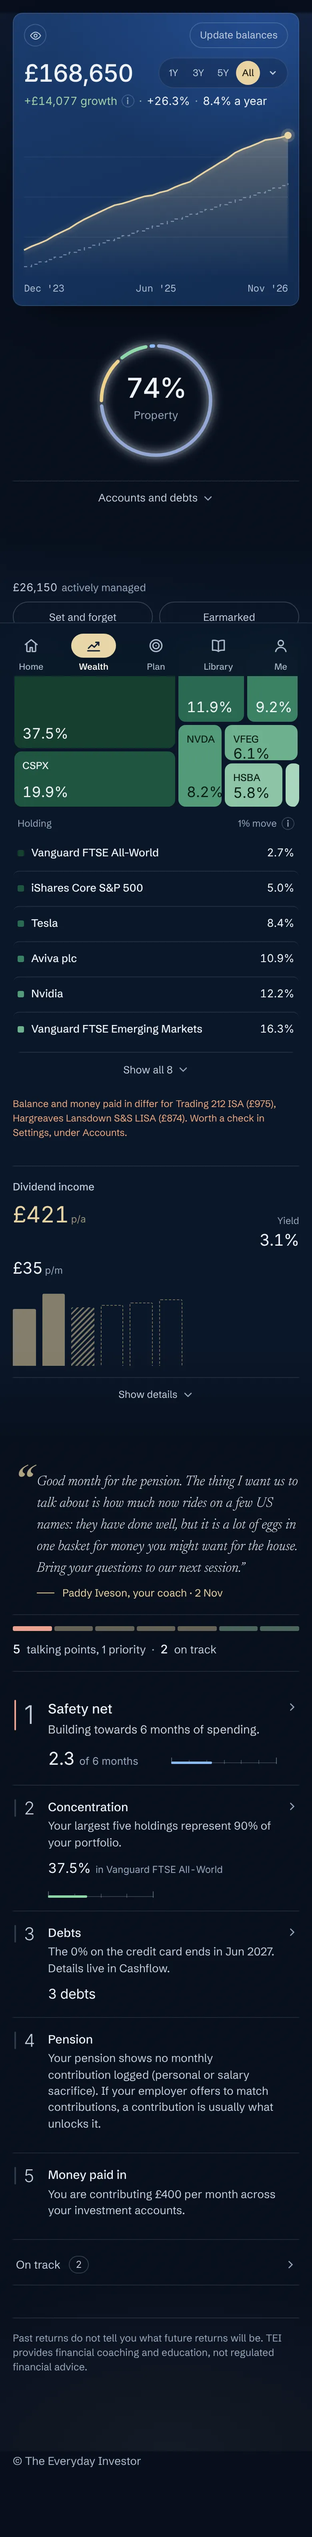
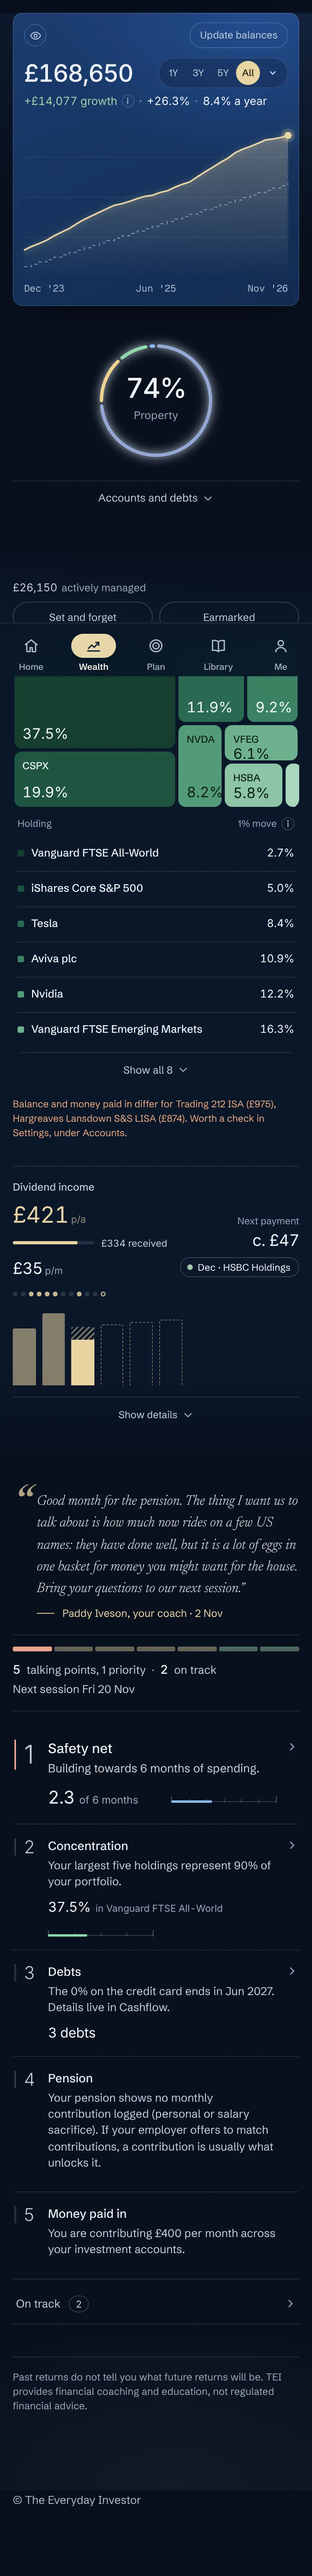
Homepage: fresh Wealth OS captures (dividend strip and next session)
Claude-Session: https://claude.ai/code/session_015wx5T26RgPTGsWLvy2vpF1

diff --git a/scripts/wos-demo/demo-client.js b/scripts/wos-demo/demo-client.js
@@ -6,6 +6,7 @@
      nodebts   no debts recorded
      noflags   no set-and-forget or earmarked accounts
      added     the Forecast and Cashflow topics are already added to the next session
+     nosession no Cal.com session booked
      stale     the plan and this month were changed after the notes were written
      light     light theme
    Today is taken from the browser clock. */
@@ -16,6 +17,7 @@
   var behind = has('behind'), noDebts = has('nodebts'), noFlags = has('noflags');
   if(has('light')){ try{ localStorage.setItem('tei-theme', 'light'); }catch(e){} }
 
+  var DIV1 = 'dddddddd-0000-4000-8000-000000000001', DIV2 = 'dddddddd-0000-4000-8000-000000000002', DIV3 = 'dddddddd-0000-4000-8000-000000000003';
   var CID = '11111111-2222-4333-8444-555555555555', UID = '99999999-8888-4777-8666-555555555555';
   var now = new Date();
   var mk = function(back){ var d = new Date(now.getFullYear(), now.getMonth() - back, 1); return d.getFullYear() + '-' + String(d.getMonth() + 1).padStart(2, '0'); };
@@ -137,9 +139,19 @@
         plan_saved_at: has('stale') ? iso(2) : null}],
       cashflow_months: cashflow_months,
       dividend_holdings: behind ? [] : [
-        {id: id(), client_id: CID, name: 'Aviva plc', yield: 7.1, growth: 4, amount: 2400, frequency: 'semiannual'},
-        {id: id(), client_id: CID, name: 'HSBC Holdings', yield: 6.2, growth: 3, amount: 1520, frequency: 'semiannual'},
-        {id: id(), client_id: CID, name: 'Vanguard FTSE All-World', yield: 1.6, growth: 5, amount: 9800, frequency: 'quarterly'}],
+        {id: DIV1, client_id: CID, name: 'Aviva plc', yield: 7.1, growth: 4, amount: 2400, frequency: 'semiannual', pay_months: [5, 9]},
+        {id: DIV2, client_id: CID, name: 'HSBC Holdings', yield: 6.2, growth: 3, amount: 1520, frequency: 'semiannual', pay_months: [4, 12]},
+        {id: DIV3, client_id: CID, name: 'Vanguard FTSE All-World', yield: 1.6, growth: 5, amount: 9800, frequency: 'quarterly', pay_months: [3, 6, 9, 12]}],
+      dividend_payments: behind ? [] : [
+        {id: id(), client_id: CID, dividend_holding_id: DIV3, paid_on: now.getFullYear() + '-03-26', amount: 38, source: 'manual'},
+        {id: id(), client_id: CID, dividend_holding_id: DIV2, paid_on: now.getFullYear() + '-04-24', amount: 47, source: 'manual'},
+        {id: id(), client_id: CID, dividend_holding_id: DIV1, paid_on: now.getFullYear() + '-05-20', amount: 84, source: 'manual'},
+        {id: id(), client_id: CID, dividend_holding_id: DIV3, paid_on: now.getFullYear() + '-06-25', amount: 39, source: 'manual'},
+        {id: id(), client_id: CID, dividend_holding_id: DIV1, paid_on: now.getFullYear() + '-09-24', amount: 86, source: 'manual'},
+        {id: id(), client_id: CID, dividend_holding_id: DIV3, paid_on: now.getFullYear() + '-09-25', amount: 40, source: 'manual'}],
+      sessions: has('nosession') ? [] : [
+        {id: id(), client_id: CID, cal_uid: 'demo-1', title: 'Plan review', start_at: new Date(now.getTime() + 11*864e5).toISOString().slice(0, 10) + 'T18:30:00Z',
+          end_at: new Date(now.getTime() + 11*864e5).toISOString().slice(0, 10) + 'T19:30:00Z', status: 'booked'}],
       wealth_assets: behind ? [] : [home],
       wealth_liabilities: liabilities,
       insurance: [], documents: [], feedback: feedback, households: [],
